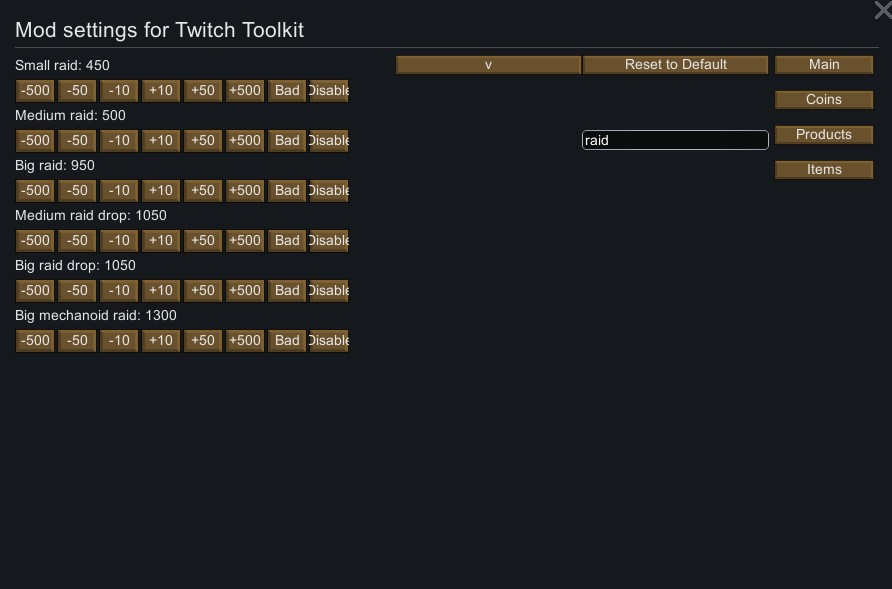
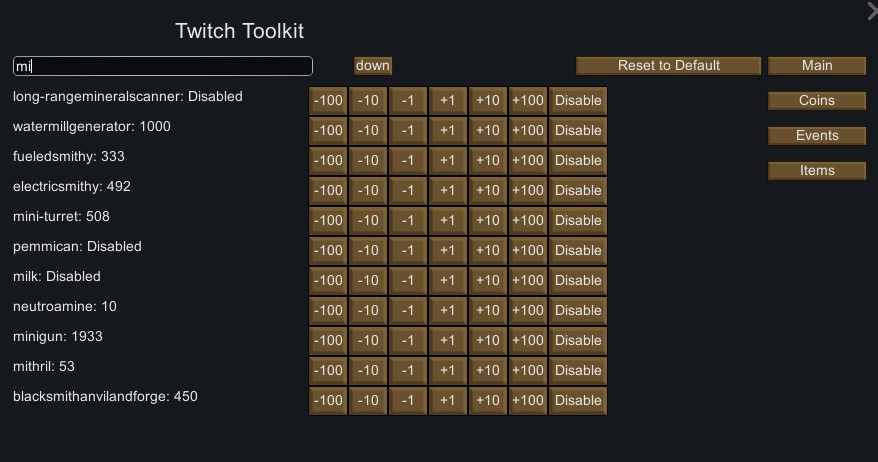
Update
- Simplified settings class
- Added framework for moderators

diff --git a/TwitchToolkit/Settings.cs b/TwitchToolkit/Settings.cs
@@ -17,8 +17,8 @@ namespace TwitchToolkit
         public static string OAuth = "";
 
         public static int VoteInterval = 5;
-        public static int VoteTime = 1;
-        public static int VoteOptions = 3;
+        public static int VoteTime;
+        public static int VoteOptions;
         public static bool VoteEnabled = true;
         public static bool AutoConnect = true;
         public static bool OtherStorytellersEnabled = true;
@@ -26,10 +26,12 @@ namespace TwitchToolkit
         public static bool CommandsAliveEnabled = true;
         public static bool QuotesEnabled = true;
 
-        public static int CoinInterval = 2;
-        public static int CoinAmount = 15;
-        public static int MinimumPurchasePrice = 50;
-        public static int KarmaCap = 300;
+        public static int CoinInterval;
+        public static int CoinAmount;
+        public static int MinimumPurchasePrice;
+        public static int KarmaCap;
+
+        public static string CustomPricingSheetLink;
 
         public static bool EarningCoins = true;
         public static bool StoreOpen = true;
@@ -41,6 +43,8 @@ namespace TwitchToolkit
         public static Dictionary<string, int> ViewerIds = null;
         public static Dictionary<int, int> ViewerCoins = new Dictionary<int, int>();
         public static Dictionary<int, int> ViewerKarma = new Dictionary<int, int>();
+
+        public static List<string> Moderators;
 
         public static List<Viewer> listOfViewers;
 
@@ -114,6 +118,9 @@ namespace TwitchToolkit
             Scribe_Values.Look(ref CoinInterval, "CoinInterval", 2, true);
             Scribe_Values.Look(ref CoinAmount, "CoinAmount", 15, true);
             Scribe_Values.Look(ref KarmaCap, "KarmaCap", 300, true);
+            Scribe_Values.Look(ref MinimumPurchasePrice, "MinimumPurchasePrice", 50, true);
+
+            Scribe_Values.Look(ref CustomPricingSheetLink, "CustomPricingSheetLink", "https://bit.ly/2GT5daR", true);
 
             Scribe_Values.Look(ref EarningCoins, "EarningCoins", false, true);
             Scribe_Values.Look(ref StoreOpen, "StoreOpen", false, true);
@@ -124,6 +131,8 @@ namespace TwitchToolkit
             Scribe_Collections.Look(ref ViewerIds, "ViewerIds", LookMode.Value, LookMode.Value);
             Scribe_Collections.Look(ref ViewerCoins, "ViewerCoins", LookMode.Value, LookMode.Value);
             Scribe_Collections.Look(ref ViewerKarma, "ViewerKarma", LookMode.Value, LookMode.Value);
+
+            Scribe_Collections.Look(ref Moderators, "Moderators", LookMode.Value);
 
             Scribe_Collections.Look(ref ItemIds, "ItemIds", LookMode.Value, LookMode.Value);
             Scribe_Collections.Look(ref ItemPrices, "ItemPrices", LookMode.Value, LookMode.Value);
@@ -379,16 +388,18 @@ namespace TwitchToolkit
         {
             Listing_TwitchToolkit listingStandard = new Listing_TwitchToolkit();
             listingStandard.Begin(rect);
-            listingStandard.CheckboxLabeled("Reward Coins:", ref Settings.EarningCoins, "Should viewers earn coins while watching?");
-            listingStandard.CheckboxLabeled("Store Open:", ref Settings.StoreOpen, "Enable purchasing of events and items");
-            listingStandard.Label("Coins Per Interval:" + Settings.CoinAmount);
-            Settings.CoinAmount = listingStandard.Slider((float)Settings.CoinAmount, 1, 250);
-            listingStandard.Label("Max Karma:" + Settings.KarmaCap);
-            Settings.KarmaCap = listingStandard.Slider((float)Settings.KarmaCap, 100, 1000);
-            listingStandard.Label("Minimum Purchase Price:" + Settings.MinimumPurchasePrice);
-            Settings.MinimumPurchasePrice = listingStandard.Slider((float)Settings.MinimumPurchasePrice, 10, 500);
-            listingStandard.Label("Minutes between coin reward:" + Settings.CoinInterval);
-            Settings.CoinInterval = listingStandard.Slider((float)Settings.CoinInterval, 1, 60);
+            listingStandard.CheckboxLabeled("Reward Coins: ", ref EarningCoins, "Should viewers earn coins while watching?");
+            listingStandard.CheckboxLabeled("Store Open: ", ref StoreOpen, "Enable purchasing of events and items");
+            listingStandard.Label("Coins Per Interval: " + CoinAmount);
+            CoinAmount = listingStandard.Slider((float)CoinAmount, 1, 250);
+            listingStandard.Label("Max Karma: " + KarmaCap);
+            KarmaCap = listingStandard.Slider((float)KarmaCap, 100, 1000);
+            listingStandard.Label("Minimum Purchase Price: " + MinimumPurchasePrice);
+            MinimumPurchasePrice = listingStandard.Slider((float)MinimumPurchasePrice, 10, 500);
+            listingStandard.Label("Minutes between coin reward: " + CoinInterval);
+            CoinInterval = listingStandard.Slider((float)CoinInterval, 1, 60);
+            listingStandard.Label("Link to custom pricing sheet: (check steamworkshop description for instructions)");
+            CustomPricingSheetLink = listingStandard.TextEntry(CustomPricingSheetLink);
 
             listingStandard.End();
         }
@@ -445,6 +456,15 @@ namespace TwitchToolkit
                 if (Widgets.ButtonText(scrollRect, "down"))
                 {
                     ProductScroll++;
+                }
+            }
+
+            if (ProductScroll > 0)
+            {
+                scrollRect.x += 40f;
+                if (Widgets.ButtonText(scrollRect, "top"))
+                {
+                    ProductScroll = 0;
                 }
             }
 
@@ -583,12 +603,12 @@ namespace TwitchToolkit
                     if (product.karmatype == 3)
                     {
                         product.karmatype = 0;
-                        Settings.ProductKarmaTypes[product.id] = 0;
+                        ProductKarmaTypes[product.id] = 0;
                     }
                     else
                     {
                         product.karmatype = product.karmatype + 1;
-                        Settings.ProductKarmaTypes[product.id] = Settings.ProductKarmaTypes[product.id] + 1;
+                        ProductKarmaTypes[product.id] = ProductKarmaTypes[product.id] + 1;
                     }
                 }
 
@@ -632,6 +652,15 @@ namespace TwitchToolkit
                 if (Widgets.ButtonText(scrollRect, "down"))
                 {
                     ItemScroll++;
+                }
+            }
+
+            if (ItemScroll > 0)
+            {
+                scrollRect.x += 40f;
+                if (Widgets.ButtonText(scrollRect, "top"))
+                {
+                    ItemScroll = 0;
                 }
             }
 

diff --git a/TwitchToolkit/TwitchToolkit.cs b/TwitchToolkit/TwitchToolkit.cs
@@ -214,9 +214,80 @@ namespace TwitchToolkit
                 }
                 return;
             }
-
+            
             //admin commands
             if (user.ToLower() == Settings.Channel.ToLower())
+            {
+                if (message.StartsWith("!resetviewers"))
+                {
+                    if (resetWarning == 0)
+                    {
+                        _client.SendMessage($"@{user} this will delete all coins and karma date. Please do !resetviewers again to confirm");
+                        resetWarning = 1;
+                    }
+                    else if (resetWarning == 1)
+                    {
+                        _client.SendMessage($"@{user} are you absolutely sure you want to delete your viewers? !resetviewers one more");
+                        resetWarning = 2;
+                    }
+                    else if (resetWarning == 2)
+                    {
+                        Helper.Log("Resetting all viewers data");
+                        _client.SendMessage($"@{user} resetting all viewers data.");
+                        Settings.ViewerIds = null;
+                        Settings.ViewerCoins = null;
+                        Settings.ViewerKarma = null;
+                        Settings.listOfViewers = new List<Viewer>();
+                        WriteSettings();
+                        resetWarning = 0;
+                    }
+                }
+
+                if (message.StartsWith("!addmod"))
+                {
+                        string[] command = message.Split(' ');
+
+                        if (command.Length < 2)
+                        {
+                            return;
+                        }
+                        
+                        string mod = command[1].Replace("@", "").ToLower();
+
+                        if (Settings.Moderators.Contains(mod))
+                        {
+                            _client.SendMessage($"@{user} @{mod} is already a TwitchToolkit Moderator.");
+                            return;
+                        }
+
+                        _client.SendMessage($"@{user} added @{mod} as TwitchToolkit Moderator.");
+                        Settings.Moderators.Add(mod);
+                        _client.SendMessage($"@{user} added @{mod} as TwitchToolkit Moderator.");
+                }
+
+                if (message.StartsWith("!removemod"))
+                {
+                        string[] command = message.Split(' ');
+
+                        if (command.Length < 2)
+                        {
+                            return;
+                        }
+                        
+                        string mod = command[1].Replace("@", "");
+
+                        if (!Settings.Moderators.Contains(mod.ToLower()))
+                        {
+                            return;
+                        }
+
+                        Settings.Moderators.Remove(mod.ToLower());
+                        _client.SendMessage($"@{user} removed @{mod} as TwitchToolkit Moderator.");
+                }
+            }
+
+            //moderator commands
+            if (user.ToLower() == Settings.Channel.ToLower() || Settings.Moderators.Contains(user.ToLower()))
             {
                 if (message.StartsWith("!refreshviewers"))
                 {
@@ -269,6 +340,12 @@ namespace TwitchToolkit
                         }
                         
                         string giftee = command[1].Replace("@", "");
+
+                        if (user.ToLower() != Settings.Channel.ToLower() && giftee.ToLower() == user.ToLower())
+                        {
+                            _client.SendMessage($"@{user} moderators cannot give themselves coins.");
+                        }
+
                         int amount;
                         bool isNumeric = int.TryParse(command[2], out amount);
                         if (isNumeric)
@@ -282,31 +359,6 @@ namespace TwitchToolkit
                     catch (InvalidCastException e)
                     {
                         Helper.Log("Invalid Give Viewer Coins Command " + e.Message);
-                    }
-                }
-
-                if (message.StartsWith("!resetviewers"))
-                {
-                    if (resetWarning == 0)
-                    {
-                        _client.SendMessage($"@{user} this will delete all coins and karma date. Please do !resetviewers again to confirm");
-                        resetWarning = 1;
-                    }
-                    else if (resetWarning == 1)
-                    {
-                        _client.SendMessage($"@{user} are you absolutely sure you want to delete your viewers? !resetviewers one more");
-                        resetWarning = 2;
-                    }
-                    else if (resetWarning == 2)
-                    {
-                        Helper.Log("Resetting all viewers data");
-                        _client.SendMessage($"@{user} resetting all viewers data.");
-                        Settings.ViewerIds = null;
-                        Settings.ViewerCoins = null;
-                        Settings.ViewerKarma = null;
-                        Settings.listOfViewers = new List<Viewer>();
-                        WriteSettings();
-                        resetWarning = 0;
                     }
                 }
 
@@ -407,7 +459,7 @@ namespace TwitchToolkit
 
                 if (message.StartsWith("!purchaselist") || message.StartsWith("!instructions"))
                 {
-                    _client.SendMessage($"@{user} events/items can be purchased in game. Example: '!buyitem skillincrease' or '!buyitem beer 5'. Full list here: https://bit.ly/2tHiyu6");
+                    _client.SendMessage($"@{user} events/items can be purchased in game. Example: '!buyitem skillincrease' or '!buyitem beer 5'. Full list here: {Settings.CustomPricingSheetLink}");
                 }
             }
 

diff --git a/TwitchToolkit/Products.cs b/TwitchToolkit/Products.cs
@@ -296,7 +296,7 @@ namespace TwitchToolkit
             else if (calculatedprice < Settings.MinimumPurchasePrice)
             {
                 // does not meet minimum purchase price
-                this.errormessage = $"@{this.viewer.username} purchase does not meet minimum amount. Your selected purchase price is {this.calculatedprice} coins but you need to spend a minimum of {Settings.MinimumPurchasePrice}";
+                this.errormessage = $"@{this.viewer.username}, your selected purchase price is {this.calculatedprice} coins but you need to spend a minimum of {Settings.MinimumPurchasePrice}";
             }
             else if (this.product.type == 0 && !this.product.evt.IsPossible())
             {
